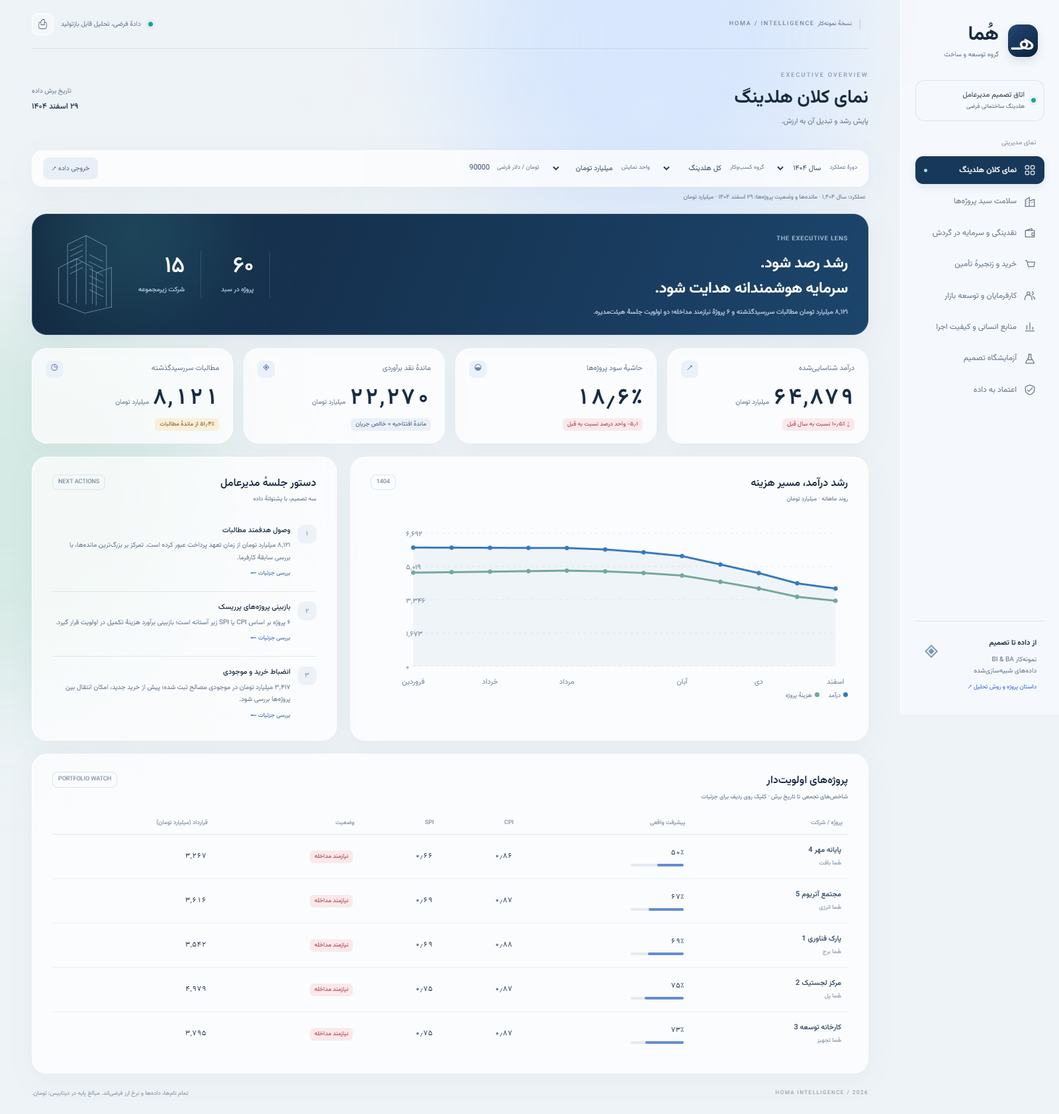
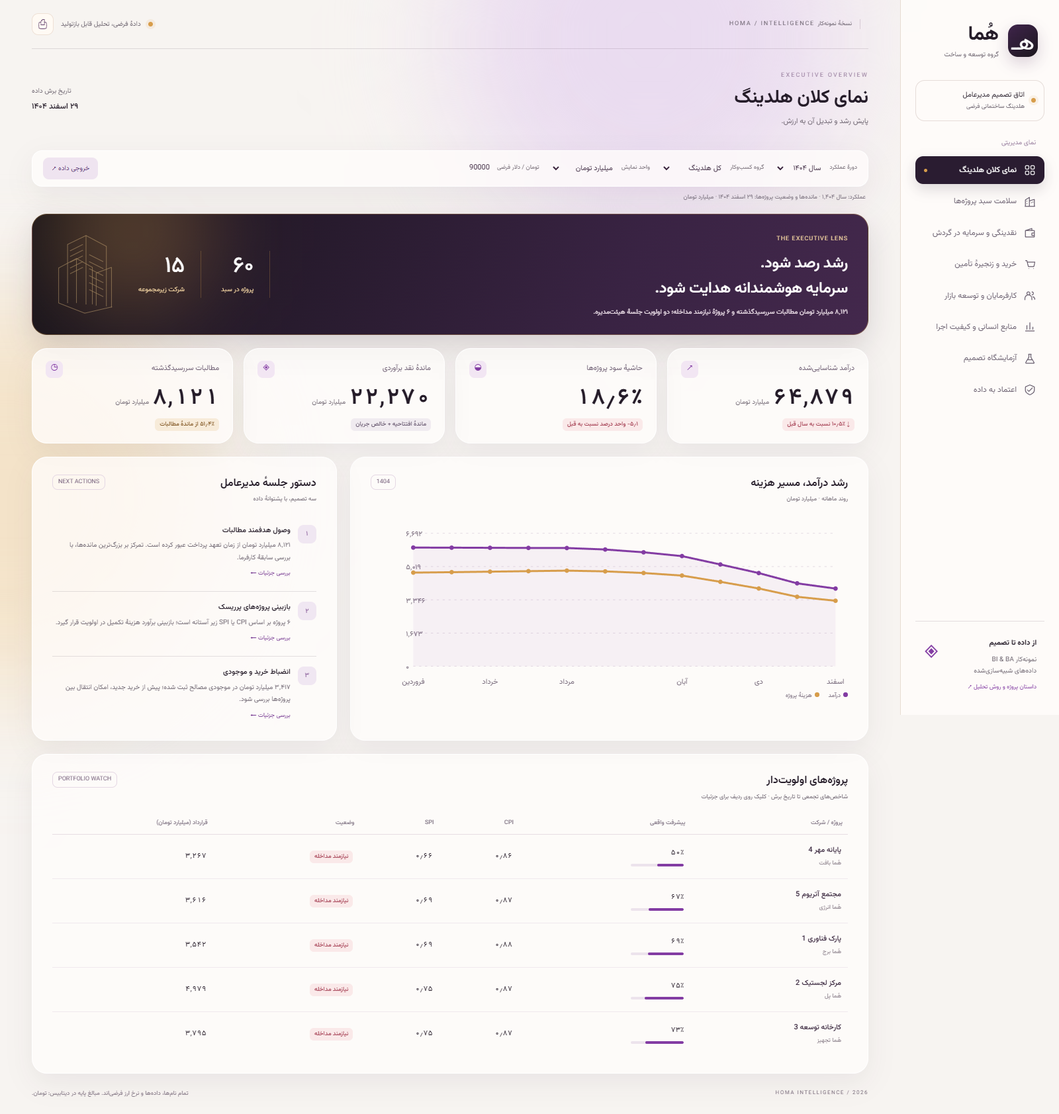
Apply Lotus-inspired dashboard palette

diff --git a/app.js b/app.js
@@ -56,11 +56,11 @@ const riskRank=p=>(1-p.cpi)*.5+(1-p.spi)*.5;
 function projectsTable(ps,limit=60){return `<div class="table-wrap"><table><thead><tr><th>پروژه / شرکت</th><th>پیشرفت واقعی</th><th>CPI</th><th>SPI</th><th>وضعیت</th><th>قرارداد (${unit()})</th></tr></thead><tbody>${[...ps].sort((a,b)=>riskRank(b)-riskRank(a)).slice(0,limit).map(p=>`<tr data-project="${p.project_id}"><td class="project-name">${p.name}<span class="secondary">${p.company_name}</span></td><td>${percent(p.progress,0)}<div class="progress"><b style="width:${p.progress*100}%"></b></div></td><td dir="ltr">${fa(p.cpi,2)}</td><td dir="ltr">${fa(p.spi,2)}</td><td>${pill(risk(p)?'نیازمند مداخله':p.spi<.95?'تحت پایش':'پایدار',risk(p)?'negative':p.spi<.95?'warning':'positive')}</td><td>${money(p.contract_toman)}</td></tr>`).join('')}</tbody></table></div>`}
 function scatter(ps){
  const w=580,h=282,l=52,t=26,b=36,r=28,xmin=.75,xmax=1.12,ymin=.55,ymax=1.13,x=v=>l+(v-xmin)/(xmax-xmin)*(w-l-r),y=v=>t+(ymax-v)/(ymax-ymin)*(h-t-b);
- let s=`<svg class="chart" viewBox="0 0 ${w} ${h}" role="img" aria-label="ماتریس عملکرد زمان و هزینه"><rect x="${l}" y="${t}" width="${w-l-r}" height="${h-t-b}" rx="10" fill="#f0f5fa"/><rect x="${x(1)}" y="${t}" width="${x(xmax)-x(1)}" height="${y(1)-t}" fill="#e3f3ee"/>`;
+ let s=`<svg class="chart" viewBox="0 0 ${w} ${h}" role="img" aria-label="ماتریس عملکرد زمان و هزینه"><rect x="${l}" y="${t}" width="${w-l-r}" height="${h-t-b}" rx="10" fill="#f5edf4"/><rect x="${x(1)}" y="${t}" width="${x(xmax)-x(1)}" height="${y(1)-t}" fill="#f4eadb"/>`;
  [.8,.9,1,1.1].forEach(v=>s+=`<line x1="${x(v)}" y1="${t}" x2="${x(v)}" y2="${h-b}" class="axis-line"/><text x="${x(v)}" y="${h-b+18}" text-anchor="middle">${fa(v,1)}</text>`);
  [.6,.8,1].forEach(v=>s+=`<line x1="${l}" y1="${y(v)}" x2="${w-r}" y2="${y(v)}" class="axis-line"/><text x="${l-10}" y="${y(v)+4}" text-anchor="end">${fa(v,1)}</text>`);
  s+=`<text x="${w/2}" y="${h-2}" text-anchor="middle">کارایی هزینه CPI →</text><text x="${l+60}" y="15" text-anchor="middle">کارایی زمان SPI</text>`;
- ps.forEach(p=>{const rad=4+Math.sqrt(p.budget_toman/BN)/13,color=risk(p)?'#be7277':'#5489c6';s+=`<circle cx="${x(p.cpi)}" cy="${y(p.spi)}" r="${rad}" fill="${color}" opacity=".72" stroke="#fff" stroke-width="1.2" data-project="${p.project_id}" data-tip="${esc(p.name+' · CPI '+fa(p.cpi,2)+' · SPI '+fa(p.spi,2))}"/>`});return s+'</svg><div class="footnote">هر دایره یک پروژه؛ اندازه متناسب با بودجه. مقدار کمتر از ۱ یعنی عملکرد ضعیفتر از خط مبنا. جزئیات هر پروژه با انتخاب دایره نمایش داده میشود.</div>';
+ ps.forEach(p=>{const rad=4+Math.sqrt(p.budget_toman/BN)/13,color=risk(p)?'#b45e69':'#8b55a1';s+=`<circle cx="${x(p.cpi)}" cy="${y(p.spi)}" r="${rad}" fill="${color}" opacity=".72" stroke="#fff" stroke-width="1.2" data-project="${p.project_id}" data-tip="${esc(p.name+' · CPI '+fa(p.cpi,2)+' · SPI '+fa(p.spi,2))}"/>`});return s+'</svg><div class="footnote">هر دایره یک پروژه؛ اندازه متناسب با بودجه. مقدار کمتر از ۱ یعنی عملکرد ضعیفتر از خط مبنا. جزئیات هر پروژه با انتخاب دایره نمایش داده میشود.</div>';
 }
 function forecast(c){
  const last=c.all.filter(x=>x.period_id>=34),overdue=sum(c.ar.filter(x=>x.overdue_days>0),'balance_toman'),ap=sum(c.ap,'balance_toman');
@@ -82,22 +82,22 @@ function forecast(c){
 function overview(c){
  const overdue=sum(c.ar.filter(x=>x.overdue_days>0),'balance_toman'),risky=c.projects.filter(risk),delta=c.prevRevenue?(c.revenue/c.prevRevenue-1):null;
  const marginal=c.prevMargin!==null?(c.margin-c.prevMargin)*100:null;
- return `<section class="hero"><div><span class="tag">THE EXECUTIVE LENS</span><h2>رشد رصد شود.<br>سرمایه هوشمندانه هدایت شود.</h2><p>${money(overdue)} ${unit()} مطالبات سررسیدگذشته و ${fa(risky.length)} پروژهٔ نیازمند مداخله؛ دو اولویت جلسهٔ هیئتمدیره.</p></div><div class="hero-stats"><div class="hero-stat"><strong>${fa(c.projects.length)}</strong><span>پروژه در سبد</span></div><div class="hero-stat"><strong>${fa(new Set(c.projects.map(p=>p.company_id)).size)}</strong><span>شرکت زیرمجموعه</span></div><svg class="building" viewBox="0 0 100 130"><g fill="none" stroke="#b5daef" stroke-width=".8"><path d="M8 110V55l28-15 25 14v58M36 40v70M22 110V18L51 4l32 17v94M51 4v108M67 114V63l24-9v63M8 110l41 16 43-10"/><path d="M26 28l20-10m-20 19 20-10m-20 19 20-10m-20 19 20-10m-20 19 20-10m10-20 22 11m-22 0 22 11m-22 0 22 11m-22 0 22 11m-22 0 22 11m-22 0 22 11"/></g></svg></div></section>
+ return `<section class="hero"><div><span class="tag">THE EXECUTIVE LENS</span><h2>رشد رصد شود.<br>سرمایه هوشمندانه هدایت شود.</h2><p>${money(overdue)} ${unit()} مطالبات سررسیدگذشته و ${fa(risky.length)} پروژهٔ نیازمند مداخله؛ دو اولویت جلسهٔ هیئتمدیره.</p></div><div class="hero-stats"><div class="hero-stat"><strong>${fa(c.projects.length)}</strong><span>پروژه در سبد</span></div><div class="hero-stat"><strong>${fa(new Set(c.projects.map(p=>p.company_id)).size)}</strong><span>شرکت زیرمجموعه</span></div><svg class="building" viewBox="0 0 100 130"><g fill="none" stroke="#d9b572" stroke-width=".8"><path d="M8 110V55l28-15 25 14v58M36 40v70M22 110V18L51 4l32 17v94M51 4v108M67 114V63l24-9v63M8 110l41 16 43-10"/><path d="M26 28l20-10m-20 19 20-10m-20 19 20-10m-20 19 20-10m-20 19 20-10m10-20 22 11m-22 0 22 11m-22 0 22 11m-22 0 22 11m-22 0 22 11m-22 0 22 11"/></g></svg></div></section>
  <div class="kpi-grid">${kpi('درآمد شناساییشده',money(c.revenue),unit(),delta===null?'بدون دورهٔ مقایسه':`${delta>=0?'↑':'↓'} ${percent(Math.abs(delta))} نسبت به سال قبل`,delta===null?'neutral':delta>=0?'positive':'negative')}${kpi('حاشیهٔ سود پروژهها',percent(c.margin),'',marginal===null?'درآمد منهای هزینهٔ پروژه':`${fa(marginal,1)} واحد درصد نسبت به قبل`,marginal===null?'neutral':marginal>=0?'positive':'negative','◒')}${kpi('ماندهٔ نقد برآوردی',money(c.cash),unit(),'ماندهٔ افتتاحیه + خالص جریان','neutral','◈')}${kpi('مطالبات سررسیدگذشته',money(overdue),unit(),percent(overdue/sum(c.ar,'balance_toman'))+' از ماندهٔ مطالبات','warning','◷')}</div>
- <div class="grid-main">${panel('رشد درآمد، مسیر هزینه','روند ماهانه · '+unit(),lineChart(c.periods.map(p=>p.label.split(' ')[0]),[{name:'درآمد',values:sumTrend(c,'revenue_toman'),color:'#3579be'},{name:'هزینهٔ پروژه',values:sumTrend(c,'cost_toman'),color:'#72a89e'}]),state.year==='all'?'۳۶ ماه':state.year)}${panel('دستور جلسهٔ مدیرعامل','سه تصمیم، با پشتوانهٔ داده',insight(1,'وصول هدفمند مطالبات',`${money(overdue)} ${unit()} از زمان تعهد پرداخت عبور کرده است. تمرکز بر بزرگترین ماندهها، با بررسی سابقهٔ کارفرما.`,'cash')+insight(2,'بازبینی پروژههای پرریسک',`${fa(risky.length)} پروژه بر اساس CPI یا SPI زیر آستانه است؛ بازبینی برآورد هزینهٔ تکمیل در اولویت قرار گیرد.`,'projects')+insight(3,'انضباط خرید و موجودی',`${money(sum(c.all,'stock_delta_toman'))} ${unit()} در موجودی مصالح ثبت شده؛ پیش از خرید جدید، امکان انتقال بین پروژهها بررسی شود.`,'procurement'),'NEXT ACTIONS')}</div>
+ <div class="grid-main">${panel('رشد درآمد، مسیر هزینه','روند ماهانه · '+unit(),lineChart(c.periods.map(p=>p.label.split(' ')[0]),[{name:'درآمد',values:sumTrend(c,'revenue_toman'),color:'#833ca3'},{name:'هزینهٔ پروژه',values:sumTrend(c,'cost_toman'),color:'#d79d4b'}]),state.year==='all'?'۳۶ ماه':state.year)}${panel('دستور جلسهٔ مدیرعامل','سه تصمیم، با پشتوانهٔ داده',insight(1,'وصول هدفمند مطالبات',`${money(overdue)} ${unit()} از زمان تعهد پرداخت عبور کرده است. تمرکز بر بزرگترین ماندهها، با بررسی سابقهٔ کارفرما.`,'cash')+insight(2,'بازبینی پروژههای پرریسک',`${fa(risky.length)} پروژه بر اساس CPI یا SPI زیر آستانه است؛ بازبینی برآورد هزینهٔ تکمیل در اولویت قرار گیرد.`,'projects')+insight(3,'انضباط خرید و موجودی',`${money(sum(c.all,'stock_delta_toman'))} ${unit()} در موجودی مصالح ثبت شده؛ پیش از خرید جدید، امکان انتقال بین پروژهها بررسی شود.`,'procurement'),'NEXT ACTIONS')}</div>
  ${panel('پروژههای اولویتدار','شاخصهای تجمعی تا تاریخ برش · کلیک روی ردیف برای جزئیات',projectsTable(c.projects,5),'PORTFOLIO WATCH')}`;
 }
 function projectsPage(c){
  const ev=sum(c.projects,'ev_toman'),ac=sum(c.projects,'cost_toman'),pv=sum(c.projects,'pv_toman'),bac=sum(c.projects,'budget_toman'),eac=sum(c.projects,p=>p.progress>=1?p.cost_toman:p.budget_toman/p.cpi);
  return `<div class="kpi-grid">${kpi('ارزش باقیماندهٔ قرارداد',money(sum(c.projects,p=>p.contract_toman-p.revenue_toman)),unit(),'ماندهٔ تعهدات شناسایینشده')}${kpi('کارایی هزینهٔ سبد',fa(ev/ac,2),'CPI','ارزش کسبشده ÷ هزینهٔ واقعی',ev/ac>=1?'positive':'warning')}${kpi('کارایی زمان سبد',fa(ev/pv,2),'SPI','ارزش کسبشده ÷ ارزش برنامه',ev/pv>=1?'positive':'warning')}${kpi('انحراف برآورد تکمیل',money(eac-bac),unit(),'EAC منهای بودجه؛ تخمین سناریویی',eac>bac?'negative':'positive')}</div>
- <div class="grid-equal">${panel('نقشهٔ ریسک زمان و هزینه','شاخصها از مجموع ارقام محاسبه میشوند، نه میانگین درصدها',scatter(c.projects),'AS OF 1404/12/29')}${panel('بودجه و هزینهٔ پیشبینیشدهٔ تکمیل','برای پروژههای باز: EAC = BAC ÷ CPI',bars(c.projects.sort((a,b)=>riskRank(b)-riskRank(a)).slice(0,5).map(p=>({name:p.name,value:Math.max(0,p.budget_toman/p.cpi-p.budget_toman),note:'انحراف برآوردی',color:'#bf858b'})))+'<p class="footnote">EAC فرض میکند کارایی هزینهٔ فعلی ادامه یابد. این شاخص جایگزین برآورد مهندسی هزینهٔ تکمیل نیست.</p>')}</div>
+ <div class="grid-equal">${panel('نقشهٔ ریسک زمان و هزینه','شاخصها از مجموع ارقام محاسبه میشوند، نه میانگین درصدها',scatter(c.projects),'AS OF 1404/12/29')}${panel('بودجه و هزینهٔ پیشبینیشدهٔ تکمیل','برای پروژههای باز: EAC = BAC ÷ CPI',bars(c.projects.sort((a,b)=>riskRank(b)-riskRank(a)).slice(0,5).map(p=>({name:p.name,value:Math.max(0,p.budget_toman/p.cpi-p.budget_toman),note:'انحراف برآوردی',color:'#b45e69'})))+'<p class="footnote">EAC فرض میکند کارایی هزینهٔ فعلی ادامه یابد. این شاخص جایگزین برآورد مهندسی هزینهٔ تکمیل نیست.</p>')}</div>
  ${panel('دفتر سبد پروژهها','درآمد و هزینه در جزئیات پروژه قابل پیگیری است',`<input class="search" id="project-search" placeholder="جستوجوی نام پروژه…" aria-label="جستوجوی پروژه"><div id="projects-table">${projectsTable(c.projects)}</div>`,fa(c.projects.length)+' پروژه')}`;
 }
 function cashPage(c){
  const f=forecast(c),ar=sum(c.ar,'balance_toman'),buckets=[['سررسید نشده',x=>!x.overdue_days],['۱ تا ۳۰ روز',x=>x.overdue_days>0&&x.overdue_days<=30],['۳۱ تا ۹۰ روز',x=>x.overdue_days>30&&x.overdue_days<=90],['۹۱ تا ۱۸۰ روز',x=>x.overdue_days>90&&x.overdue_days<=180],['بیش از ۱۸۰ روز',x=>x.overdue_days>180]];
  const clients={};c.ar.forEach(x=>{const a=clients[x.customer_id]??={id:x.customer_id,balance:0,overdue:0};a.balance+=x.balance_toman;if(x.overdue_days)a.overdue+=x.balance_toman});
  return `<div class="kpi-grid">${kpi('مطالبات باز',money(ar),unit(),'صورتحساب منهای دریافتها')}${kpi('مطالبات سررسیدگذشته',money(f.overdue),unit(),percent(f.overdue/ar)+' از مطالبات','warning')}${kpi('بدهی باز به تأمینکنندگان',money(f.ap),unit(),'سفارش خرید منهای پرداخت')}${kpi('ماندهٔ نقد برآوردی',money(c.cash),unit(),'مانده در تاریخ برش')}</div>
- <div class="grid-equal">${panel('سن مطالبات','مبنای سن: تاریخ سررسید؛ تا ۲۹ اسفند ۱۴۰۴',bars(buckets.map(([name,fn],i)=>({name,value:sum(c.ar.filter(fn),'balance_toman'),color:i>2?'#bd7d86':'#648dc5'}))))}${panel('چشمانداز نقدینگی ۱۳ هفتهای','سناریوی ساده با فرض ادامهٔ نرخ فعالیت سه ماه اخیر',lineChart(['امروز',...Array.from({length:13},(_,i)=>'هفته '+fa(i+1))],[{name:'سناریوی پایه',values:f.base,color:'#3d77b3'},{name:'با فرضهای آزمایشگاه تصمیم',values:f.scenario,color:'#248e82'}],{minZero:false}))}</div>
+ <div class="grid-equal">${panel('سن مطالبات','مبنای سن: تاریخ سررسید؛ تا ۲۹ اسفند ۱۴۰۴',bars(buckets.map(([name,fn],i)=>({name,value:sum(c.ar.filter(fn),'balance_toman'),color:i>2?'#b45e69':'#a17ab0'}))))}${panel('چشمانداز نقدینگی ۱۳ هفتهای','سناریوی ساده با فرض ادامهٔ نرخ فعالیت سه ماه اخیر',lineChart(['امروز',...Array.from({length:13},(_,i)=>'هفته '+fa(i+1))],[{name:'سناریوی پایه',values:f.base,color:'#833ca3'},{name:'با فرضهای آزمایشگاه تصمیم',values:f.scenario,color:'#9b6828'}],{minZero:false}))}</div>
  ${panel('اولویت پیگیری وصول','همهٔ ماندهها مربوط به تاریخ برش هستند',`<div class="table-wrap"><table><thead><tr><th>کارفرما</th><th>ماندهٔ باز (${unit()})</th><th>سررسیدگذشته (${unit()})</th><th>سهم سررسیدگذشته</th></tr></thead><tbody>${Object.values(clients).sort((a,b)=>b.overdue-a.overdue).slice(0,8).map(x=>`<tr><td>${customerMap[x.id].name}</td><td>${money(x.balance)}</td><td>${money(x.overdue)}</td><td>${pill(percent(x.overdue/x.balance),x.overdue/x.balance>.6?'warning':'neutral')}</td></tr>`).join('')}</tbody></table></div>`)}<div class="callout">پیشبینی سناریویی است، نه وعدهٔ وصول: وصول ماندهها با ضرایب ۸۸٪، ۷۰٪، ۴۵٪ و ۲۵٪ برحسب سن فرض شده؛ پرداخت ماندهٔ تأمینکنندگان طی ۱۳ هفته و پرداخت ۷۴٪ هزینهٔ جدید نیز فرض مدل است. ماندهٔ افتتاحیه برای فیلتر گروه به نسبت قراردادها تخصیص مییابد.</div>`;
 }
 function procurement(c){
@@ -118,7 +118,7 @@ function customers(c){
 function people(c){
  const pe=D.people.filter(x=>c.ids.has(x.project_id)),pay=D.costs.filter(x=>c.ids.has(x.project_id)&&c.periodIds.has(x.period_id)&&x.category==='payroll'),n=sum(pe,'headcount'),tickets=sum(c.m,'tickets'),breach=sum(c.m,'breached_tickets');
  return `<div class="kpi-grid">${kpi('نیروی انسانی تخصیصیافته',fa(n),'نفر','تعداد ثابت در سناریوی داده')}${kpi('هزینهٔ حقوق و دستمزد',money(sum(pay,'amount_toman')),unit(),'قابل تطبیق با ریز حقوق')}${kpi('درخواستهای ثبتشده',fa(tickets),'درخواست','کیفیت، اسناد، تغییر و ایمنی')}${kpi('حل درخواست در SLA',percent(1-breach/tickets),'','حل در حداکثر ۷ روز','warning')}</div>
- <div class="grid-equal">${panel('ترکیب نیروی انسانی','تعداد کارکنان تخصیصیافته به پروژهها',bars(['مهندس','تکنسین','کارشناس پروژه','سرپرست','کارگر ماهر'].map(name=>({name,value:sum(pe.filter(x=>x.role===name),'headcount'),note:'نفر'})),{count:true}))}${panel('روند هزینهٔ نیروی انسانی','مبالغ '+unit()+' · بخشی از هزینهٔ مستقیم پروژه',lineChart(c.periods.map(p=>p.label.split(' ')[0]),[{name:'حقوق و دستمزد',color:'#387fb5',values:c.periods.map(p=>sum(pay.filter(x=>x.period_id===p.period_id),'amount_toman'))}]))}</div>
+ <div class="grid-equal">${panel('ترکیب نیروی انسانی','تعداد کارکنان تخصیصیافته به پروژهها',bars(['مهندس','تکنسین','کارشناس پروژه','سرپرست','کارگر ماهر'].map(name=>({name,value:sum(pe.filter(x=>x.role===name),'headcount'),note:'نفر'})),{count:true}))}${panel('روند هزینهٔ نیروی انسانی','مبالغ '+unit()+' · بخشی از هزینهٔ مستقیم پروژه',lineChart(c.periods.map(p=>p.label.split(' ')[0]),[{name:'حقوق و دستمزد',color:'#833ca3',values:c.periods.map(p=>sum(pay.filter(x=>x.period_id===p.period_id),'amount_toman'))}]))}</div>
  ${panel('پروژههای نیازمند بهبود خدمت','نسبت عبور از SLA، ابزار پایش است و بهتنهایی علت را اثبات نمیکند',`<div class="table-wrap"><table><thead><tr><th>پروژه</th><th>درخواست</th><th>عبور از SLA</th><th>نرخ رعایت SLA</th></tr></thead><tbody>${c.projects.map(p=>{const ms=c.m.filter(x=>x.project_id===p.project_id);return{...p,n:sum(ms,'tickets'),bad:sum(ms,'breached_tickets')}}).sort((a,b)=>b.bad/b.n-a.bad/a.n).slice(0,7).map(p=>`<tr data-project="${p.project_id}"><td>${p.name}</td><td>${fa(p.n)}</td><td>${fa(p.bad)}</td><td>${pill(percent(1-p.bad/p.n),'warning')}</td></tr>`).join('')}</tbody></table></div>`)}`;
 }
 function decisions(c){
@@ -129,7 +129,7 @@ function decisions(c){
  <div class="decision-card glass"><div class="rank">02</div><div><h3>بازبرآورد هزینهٔ تکمیل پروژههای پرریسک</h3><p>${worst.name} در اولویت بازبینی است: CPI برابر ${fa(worst.cpi,2)} و SPI برابر ${fa(worst.spi,2)}. گزارش مهندسیِ مسیر بحرانی، تعهدات و کار باقیمانده پیش از تزریق بودجه آماده شود.</p></div><div class="owner">مالک: PMO + مدیر پروژه<br>افق اقدام: ۱۴ روز<br>شاخص: EAC و برنامهٔ جبرانی</div></div>
  <div class="decision-card glass"><div class="rank">03</div><div><h3>مذاکرهٔ خرید و انتقال موجودی بین پروژهها</h3><p>مقایسهٔ تأمینکنندگان در هر گروه مصالح، بررسی کیفیت و زمان تحویل، سپس مذاکرهٔ آزمایشی. انتقال موجودی فقط پس از تطبیق مشخصات فنی و نیاز مصوب پروژهٔ مقصد انجام شود.</p></div><div class="owner">مالک: خرید + انبار + فنی<br>افق اقدام: ۴۵ روز<br>شاخص: قیمت همسبد و تأخیر</div></div>`;
 }
-function scenarioOutput(c){const f=forecast(c),delta=f.scenario.at(-1)-f.base.at(-1);return `<div class="scenario-result"><div><small>اثر نقدی ۱۳ هفته · ${unit()}</small><strong style="color:${delta>=0?'var(--teal)':'var(--red)'}">${delta>=0?'+':''}${money(delta)}</strong></div><div><small>اثر بر سود فرضی · ${unit()}</small><strong>${money(f.netProfit)}</strong></div><div><small>کمترین ماندهٔ سناریو · ${unit()}</small><strong>${money(Math.min(...f.scenario))}</strong></div></div>${lineChart(['امروز',...Array.from({length:13},(_,i)=>'هفته '+fa(i+1))],[{name:'پایه',values:f.base,color:'#8aa2bd',dashed:true},{name:'سناریوی شما',values:f.scenario,color:'#228d83'}],{minZero:false,height:245})}<p class="footnote">اثر نقدی = وصول افزوده پس از هزینهٔ تشویقی + ۷۴٪ × (صرفهجویی خرید − شوک مصالح). اثر سود شامل اصل مطالبات وصولشده نیست. ${money(f.recover)} ${unit()} وصول افزوده فرض شده است.</p>`}
+function scenarioOutput(c){const f=forecast(c),delta=f.scenario.at(-1)-f.base.at(-1);return `<div class="scenario-result"><div><small>اثر نقدی ۱۳ هفته · ${unit()}</small><strong style="color:${delta>=0?'var(--teal)':'var(--red)'}">${delta>=0?'+':''}${money(delta)}</strong></div><div><small>اثر بر سود فرضی · ${unit()}</small><strong>${money(f.netProfit)}</strong></div><div><small>کمترین ماندهٔ سناریو · ${unit()}</small><strong>${money(Math.min(...f.scenario))}</strong></div></div>${lineChart(['امروز',...Array.from({length:13},(_,i)=>'هفته '+fa(i+1))],[{name:'پایه',values:f.base,color:'#aa96ad',dashed:true},{name:'سناریوی شما',values:f.scenario,color:'#9b6828'}],{minZero:false,height:245})}<p class="footnote">اثر نقدی = وصول افزوده پس از هزینهٔ تشویقی + ۷۴٪ × (صرفهجویی خرید − شوک مصالح). اثر سود شامل اصل مطالبات وصولشده نیست. ${money(f.recover)} ${unit()} وصول افزوده فرض شده است.</p>`}
 function quality(){const q=D.dq,physical=sum(Object.entries(D.rowCounts).filter(([k])=>!['metadata','dq_audit','dq_quarantine'].includes(k)).map(([k,v])=>({n:v})),'n');return `<div class="lineage"><div class="glass"><span class="stage">01 / SOURCE</span><strong>${fa(q.raw_rows)}</strong><span>ردیف خام سفارش خرید</span></div><div class="glass"><span class="stage">02 / VALIDATE</span><strong>${fa(q.duplicate_order+q.missing_project+q.negative_amount+q.invalid_supplier)}</strong><span>تکراری یا قرنطینهشده</span></div><div class="glass"><span class="stage">03 / WAREHOUSE</span><strong>${fa(q.accepted_orders)}</strong><span>سفارش یکتای معتبر</span></div><div class="glass"><span class="stage">04 / DECISION</span><strong>۸ نمای تحلیلی</strong><span>شاخصهای مشترک و قابل ردیابی</span></div></div>
  <div class="grid-equal">${panel('کیفیت، با مدرک','کنترلهای ثبتشده در qa/data-validation.json',`<div class="quality-number">۱۵ / ۱۵</div><div class="sub">کنترل اصلی داده با موفقیت انجام شده</div><div class="callout">تطبیق هزینهٔ پروژه با ریز هزینهها، حقوق با ریز پرداخت کارکنان، مصرف مصالح با موجودی، دریافتی با رویدادهای نقدی و نبود کلید خارجی نامعتبر.</div><div class="stat-pair"><div><strong>${fa(physical)}</strong><span>رکورد در جداول عملیاتی و تحلیلی</span></div><div><strong>${fa(D.rowCounts.projects)}</strong><span>پروژهٔ ساختوساز</span></div></div>`)}${panel('گزارش پاکسازی','هیچ ردیف نامعتبر بدون ثبت دلیل حذف نشده است',`<div class="table-wrap"><table><thead><tr><th>مسئله</th><th>تعداد</th><th>اقدام</th></tr></thead><tbody>${[['سفارش تکراری',q.duplicate_order,'حذف تکرار'],['شناسهٔ پروژهٔ خالی',q.missing_project,'قرنطینه'],['مبلغ منفی نامعتبر',q.negative_amount,'قرنطینه'],['تأمینکنندهٔ نامعتبر',q.invalid_supplier,'قرنطینه'],['مبلغ ریالی',q.irr_to_toman,'تبدیل به تومان'],['قالب متفاوت تاریخ',q.date_standardized,'استانداردسازی']].map(x=>`<tr><td>${x[0]}</td><td>${fa(x[1])}</td><td>${pill(x[2])}</td></tr>`).join('')}</tbody></table></div>`)}</div>
  ${panel('تعریف و دامنهٔ شاخصها','شفافیت فرضها، بخشی از نمونهکار است',`<div class="table-wrap"><table><thead><tr><th>شاخص</th><th>تعریف</th><th>محدودیت</th></tr></thead><tbody><tr><td>درآمد شناساییشده</td><td>ارزش قرارداد × افزایش پیشرفت واقعی</td><td>مدل مدیریتی ساده؛ قواعد رسمی حسابداری اعمال نشده</td></tr><tr><td>سود پروژه</td><td>درآمد منهای هزینهٔ مستقیم پروژه</td><td>مالیات، هزینهٔ تأمین مالی و سربار مرکزی مدل نشده</td></tr><tr><td>CPI / SPI</td><td>EV ÷ AC / EV ÷ PV</td><td>ارزش کسبشده با بودجه سنجیده میشود، نه مبلغ فروش</td></tr><tr><td>ماندهٔ نقد</td><td>افتتاحیه + دریافت − پرداخت − بازاریابی</td><td>ماندهٔ شبیهسازیشده؛ وام و سود سهام مدل نشده</td></tr><tr><td>دلار</td><td>تومان ÷ نرخ فرضی ÷ یک میلیون</td><td>صرفاً تبدیل نمایشی، بدون نرخ زنده</td></tr><tr><td>همت</td><td>هزار میلیارد تومان</td><td>همهٔ محاسبات پایه بر حسب تومان صحیح</td></tr></tbody></table></div>`)}<p class="footnote">دادهها از روابط تعریفشدهٔ سناریو تولید شدهاند؛ کشف علت یا اثبات مهارت روی دادهٔ واقعی محسوب نمیشوند. کد تولید، SQL، تعاریف شاخص و کنترلهای کیفیت همراه پروژهاند.</p>`}
@@ -139,7 +139,7 @@ function bindLocal(c){
  ['collect','save','inflation'].forEach(k=>$('#'+k)?.addEventListener('input',e=>{state[k]=+e.target.value;$('#'+k+'-label').textContent=fa(state[k],k==='save'?1:0)+'٪';$('#scenario-output').innerHTML=scenarioOutput(c)}));
  $('#reset-scenario')?.addEventListener('click',()=>{state.collect=20;state.save=3;state.inflation=5;render()});
 }
-function detail(id){const p=projectMap[id];if(!p)return;const ms=D.monthly.filter(x=>x.project_id===id&&x.period_id>24),ar=sum(D.receivables.filter(x=>x.project_id===id),'balance_toman');$('#drawer-body').innerHTML=`<div class="eyebrow">PROJECT / ${String(id).padStart(3,'0')}</div><h2>${p.name}</h2><p>${p.company_name} · ${p.location}<br>${p.type} · همهٔ ماندهها در تاریخ برش داده</p><div class="kpi-grid">${kpi('ارزش قرارداد',money(p.contract_toman),unit())}${kpi('پیشرفت واقعی',percent(p.progress),'',`برنامه: ${percent(p.planned_progress)}`)}${kpi('کارایی هزینه',fa(p.cpi,2),'CPI',p.cpi<1?'بالاتر از هزینهٔ بودجهای':'در محدودهٔ بودجه',p.cpi<1?'warning':'positive')}${kpi('مطالبات باز',money(ar),unit())}</div>${panel('درآمد و هزینهٔ ۱۲ ماه اخیر',unit(),lineChart(D.periods.slice(24).map(x=>x.label.split(' ')[0]),[{name:'درآمد',values:ms.map(x=>x.revenue_toman),color:'#4c83c3'},{name:'هزینه',values:ms.map(x=>x.cost_toman),color:'#82aaa1'}]))}<div class="callout">ارزش کسبشده: ${money(p.ev_toman)} ${unit()}<br>هزینهٔ تجمعی: ${money(p.cost_toman)} ${unit()}<br>پیشبینی هزینهٔ تکمیل: ${money(p.progress>=1?p.cost_toman:p.budget_toman/p.cpi)} ${unit()}<br>فروض EAC: تداوم کارایی هزینهٔ فعلی.</div>`;$('#backdrop').hidden=false;$('#drawer').hidden=false;$('#close-drawer').focus()}
+function detail(id){const p=projectMap[id];if(!p)return;const ms=D.monthly.filter(x=>x.project_id===id&&x.period_id>24),ar=sum(D.receivables.filter(x=>x.project_id===id),'balance_toman');$('#drawer-body').innerHTML=`<div class="eyebrow">PROJECT / ${String(id).padStart(3,'0')}</div><h2>${p.name}</h2><p>${p.company_name} · ${p.location}<br>${p.type} · همهٔ ماندهها در تاریخ برش داده</p><div class="kpi-grid">${kpi('ارزش قرارداد',money(p.contract_toman),unit())}${kpi('پیشرفت واقعی',percent(p.progress),'',`برنامه: ${percent(p.planned_progress)}`)}${kpi('کارایی هزینه',fa(p.cpi,2),'CPI',p.cpi<1?'بالاتر از هزینهٔ بودجهای':'در محدودهٔ بودجه',p.cpi<1?'warning':'positive')}${kpi('مطالبات باز',money(ar),unit())}</div>${panel('درآمد و هزینهٔ ۱۲ ماه اخیر',unit(),lineChart(D.periods.slice(24).map(x=>x.label.split(' ')[0]),[{name:'درآمد',values:ms.map(x=>x.revenue_toman),color:'#833ca3'},{name:'هزینه',values:ms.map(x=>x.cost_toman),color:'#d79d4b'}]))}<div class="callout">ارزش کسبشده: ${money(p.ev_toman)} ${unit()}<br>هزینهٔ تجمعی: ${money(p.cost_toman)} ${unit()}<br>پیشبینی هزینهٔ تکمیل: ${money(p.progress>=1?p.cost_toman:p.budget_toman/p.cpi)} ${unit()}<br>فروض EAC: تداوم کارایی هزینهٔ فعلی.</div>`;$('#backdrop').hidden=false;$('#drawer').hidden=false;$('#close-drawer').focus()}
 function closeDetail(){$('#backdrop').hidden=true;$('#drawer').hidden=true}
 $('#close-drawer').onclick=closeDetail;$('#backdrop').onclick=closeDetail;document.addEventListener('keydown',e=>{if(e.key==='Escape')closeDetail()});
 document.addEventListener('click',e=>{const project=e.target.closest('[data-project]');if(project)detail(+project.dataset.project);const go=e.target.closest('[data-go]');if(go)location.hash=go.dataset.go});

diff --git a/CASE-STUDY.html b/CASE-STUDY.html
@@ -1,1 +1,1 @@
-<!doctype html><html lang="fa" dir="rtl"><meta charset="utf-8"><meta name="viewport" content="width=device-width,initial-scale=1"><title>هُما | از داده تا تصمیم</title><style>@font-face{font-family:v;src:url(assets/Vazirmatn.ttf)}*{box-sizing:border-box}body{margin:0;background:#edf2f6;color:#182d42;font:17px/2 v,sans-serif}main{max-width:1140px;margin:auto;padding:60px 25px}header{padding:65px;border-radius:35px;background:#162e47;color:white}h1{font-size:48px;line-height:1.6;margin:12px 0}.eyebrow{letter-spacing:4px;font:13px Arial}.btn{display:inline-block;padding:12px 23px;border-radius:14px;background:#a8dfcc;color:#163329;text-decoration:none;margin:8px}.grid{display:grid;grid-template-columns:repeat(4,1fr);gap:18px;margin:25px 0}.card,section{background:#ffffffc9;border:1px solid white;box-shadow:0 16px 45px #22394b08;border-radius:25px;padding:28px;margin-top:20px}.card b{display:block;font:38px/1.8 Arial}.card span,.card small{display:block}h2{margin-top:0}img{width:100%;border-radius:20px}li{margin:12px 0}a{color:#236092}.note{color:#667b8c}@media(max-width:700px){.grid{grid-template-columns:1fr 1fr}header{padding:30px}h1{font-size:32px}}</style><main><header><div class="eyebrow">HOMA • BUSINESS INTELLIGENCE / BUSINESS ANALYSIS</div><h1>از دادهٔ پراکنده<br>تا تصمیم مدیرعامل.</h1><p>نمونهکار هلدینگ ساختمانی فرضی در تهران؛ طراحی برای سطح میدل BI / BA.</p><a class="btn" href="index.html">ورود به داشبورد تعاملی ←</a><a class="btn" href="video/HOMA-90s.mp4">تماشای روایت ۹۰ ثانیهای</a></header><div class="grid"><div class="card"><small>دادهٔ معتبر</small><b>240,000</b><span>سفارش خرید</span></div><div class="card"><small>پرتفوی</small><b>60</b><span>پروژهٔ ساختمانی</span></div><div class="card"><small>درآمد ۱۴۰۴</small><b>64.88</b><span>همت</span></div><div class="card"><small>حاشیه پروژه</small><b>18.6%</b><span>سال ۱۴۰۴</span></div></div><section><h2>مسئلهٔ کسبوکار</h2><p>مدیرعامل باید بداند کدام پروژه به بازبینی نیاز دارد، کدام مطالبات اولویت وصول دارند و تغییر شرایط خرید چه اثری بر نقد میگذارد. مدل میان درآمد، صورتوضعیت، دریافت نقد و خرید تفاوت میگذارد.</p><p>دادهٔ خام شامل تکرار، مبلغ نامعتبر، واحد ریال و کلید مفقود است. مسیر پاکسازی و کنترلهای تطبیق در کنار داشبورد تحویل شدهاند.</p></section><section><h2>سه یافته؛ سه مسیر اقدام</h2><ol><li><b>8.12 همت مطالبات معوق:</b> ثبت مالک پرونده، حل اختلاف و برنامهٔ وصول ۳۰روزه.</li><li><b>6 پروژهٔ پرریسک:</b> بازبرآورد هزینهٔ تکمیل و بازبینی برنامهٔ جبرانی توسط PMO.</li><li><b>3.42 همت موجودی مصالح:</b> بررسی قابلیت انتقال و مقایسهٔ تأمینکنندگان در سبد یکسان.</li></ol><p class="note">درآمد ۱۴۰۴ نسبت به سال قبل 10.5٪ کاهش دارد. اقدامها پیشنهادند؛ بهبود تحققیافته ادعا نشده است.</p></section><section><h2>داشبورد در عمل</h2><img src="qa/overview.png" alt="داشبورد مدیریتی هُما"><p>هشت حوزه، فیلتر گروه و سال، تبدیل واحد، جزئیات پروژه و سه اهرم حساسیتسنجی.</p></section><section><h2>پروندهٔ فنی و تحلیلی</h2><p><a href="excel/HOMA-Analysis.xlsx">فایل Excel با فرمول</a></p><ul><li><a href="https://github.com/Barry-Amirahmadi/homabiportfolio/blob/main/docs/BUSINESS-ANALYSIS.md">نیازمندی و قواعد کسبوکار</a></li><li><a href="https://github.com/Barry-Amirahmadi/homabiportfolio/blob/main/docs/DATA-DICTIONARY.md">فرهنگ داده</a></li><li><a href="https://github.com/Barry-Amirahmadi/homabiportfolio/blob/main/docs/INTERVIEW-GUIDE.md">راهنمای مصاحبه</a></li><li><a href="https://github.com/Barry-Amirahmadi/homabiportfolio/blob/main/powerbi/README-FA.md">ساخت نسخهٔ Power BI</a></li><li><a href="https://github.com/Barry-Amirahmadi/homabiportfolio/blob/main/sql/analysis.sql">کوئریهای تحلیلی</a></li><li>دیتابیس SQLite در بستهٔ محلی نمونهکار قرار دارد.</li><li><a href="https://github.com/Barry-Amirahmadi/homabiportfolio/blob/main/qa/dashboard-validation.json">نتیجهٔ آزمون داشبورد</a></li></ul><p>مدل داده: Python → CSV خام → SQLite → مدل تحلیلی → داشبورد → سناریو و اقدام. منبع ویدئو با OpenMontage / HyperFrames همراه بسته است.</p></section><section><h2>شفافیت نمونهکار</h2><p>تمام دادهها، شرکتها و نرخ ارز فرضیاند. داشبورد وب عمومی و نسخهٔ محلی آمادهاند؛ بستهٔ Power BI شامل داده و DAX است و PBIX نیست. سناریوی نقدینگی مدل فرضی دارد. این پروژه تجربهٔ استخدامی واقعی یا حسابرسی مالی محسوب نمیشود.</p></section></main></html>
+<!doctype html><html lang="fa" dir="rtl"><meta charset="utf-8"><meta name="viewport" content="width=device-width,initial-scale=1"><title>هُما | از داده تا تصمیم</title><style>@font-face{font-family:v;src:url(assets/Vazirmatn.ttf)}*{box-sizing:border-box}body{margin:0;background:#f7f4f1;color:#251c29;font:17px/2 v,sans-serif}main{max-width:1140px;margin:auto;padding:60px 25px}header{padding:65px;border-radius:35px;background:#2a1c31;color:white}h1{font-size:48px;line-height:1.6;margin:12px 0}.eyebrow{letter-spacing:4px;font:13px Arial}.btn{display:inline-block;padding:12px 23px;border-radius:14px;background:#d79d4b;color:#231a20;text-decoration:none;margin:8px}.grid{display:grid;grid-template-columns:repeat(4,1fr);gap:18px;margin:25px 0}.card,section{background:#fffdfbc9;border:1px solid white;box-shadow:0 16px 45px #2a1a2b12;border-radius:25px;padding:28px;margin-top:20px}.card b{display:block;font:38px/1.8 Arial}.card span,.card small{display:block}h2{margin-top:0}img{width:100%;border-radius:20px}li{margin:12px 0}a{color:#763894}.note{color:#685f6b}@media(max-width:700px){.grid{grid-template-columns:1fr 1fr}header{padding:30px}h1{font-size:32px}}</style><main><header><div class="eyebrow">HOMA • BUSINESS INTELLIGENCE / BUSINESS ANALYSIS</div><h1>از دادهٔ پراکنده<br>تا تصمیم مدیرعامل.</h1><p>نمونهکار هلدینگ ساختمانی فرضی در تهران؛ طراحی برای سطح میدل BI / BA.</p><a class="btn" href="index.html">ورود به داشبورد تعاملی ←</a><a class="btn" href="video/HOMA-90s.mp4">تماشای روایت ۹۰ ثانیهای</a></header><div class="grid"><div class="card"><small>دادهٔ معتبر</small><b>240,000</b><span>سفارش خرید</span></div><div class="card"><small>پرتفوی</small><b>60</b><span>پروژهٔ ساختمانی</span></div><div class="card"><small>درآمد ۱۴۰۴</small><b>64.88</b><span>همت</span></div><div class="card"><small>حاشیه پروژه</small><b>18.6%</b><span>سال ۱۴۰۴</span></div></div><section><h2>مسئلهٔ کسبوکار</h2><p>مدیرعامل باید بداند کدام پروژه به بازبینی نیاز دارد، کدام مطالبات اولویت وصول دارند و تغییر شرایط خرید چه اثری بر نقد میگذارد. مدل میان درآمد، صورتوضعیت، دریافت نقد و خرید تفاوت میگذارد.</p><p>دادهٔ خام شامل تکرار، مبلغ نامعتبر، واحد ریال و کلید مفقود است. مسیر پاکسازی و کنترلهای تطبیق در کنار داشبورد تحویل شدهاند.</p></section><section><h2>سه یافته؛ سه مسیر اقدام</h2><ol><li><b>8.12 همت مطالبات معوق:</b> ثبت مالک پرونده، حل اختلاف و برنامهٔ وصول ۳۰روزه.</li><li><b>6 پروژهٔ پرریسک:</b> بازبرآورد هزینهٔ تکمیل و بازبینی برنامهٔ جبرانی توسط PMO.</li><li><b>3.42 همت موجودی مصالح:</b> بررسی قابلیت انتقال و مقایسهٔ تأمینکنندگان در سبد یکسان.</li></ol><p class="note">درآمد ۱۴۰۴ نسبت به سال قبل 10.5٪ کاهش دارد. اقدامها پیشنهادند؛ بهبود تحققیافته ادعا نشده است.</p></section><section><h2>داشبورد در عمل</h2><img src="qa/overview.png" alt="داشبورد مدیریتی هُما"><p>هشت حوزه، فیلتر گروه و سال، تبدیل واحد، جزئیات پروژه و سه اهرم حساسیتسنجی.</p></section><section><h2>پروندهٔ فنی و تحلیلی</h2><p><a href="excel/HOMA-Analysis.xlsx">فایل Excel با فرمول</a></p><ul><li><a href="https://github.com/Barry-Amirahmadi/homabiportfolio/blob/main/docs/BUSINESS-ANALYSIS.md">نیازمندی و قواعد کسبوکار</a></li><li><a href="https://github.com/Barry-Amirahmadi/homabiportfolio/blob/main/docs/DATA-DICTIONARY.md">فرهنگ داده</a></li><li><a href="https://github.com/Barry-Amirahmadi/homabiportfolio/blob/main/docs/INTERVIEW-GUIDE.md">راهنمای مصاحبه</a></li><li><a href="https://github.com/Barry-Amirahmadi/homabiportfolio/blob/main/powerbi/README-FA.md">ساخت نسخهٔ Power BI</a></li><li><a href="https://github.com/Barry-Amirahmadi/homabiportfolio/blob/main/sql/analysis.sql">کوئریهای تحلیلی</a></li><li>دیتابیس SQLite در بستهٔ محلی نمونهکار قرار دارد.</li><li><a href="https://github.com/Barry-Amirahmadi/homabiportfolio/blob/main/qa/dashboard-validation.json">نتیجهٔ آزمون داشبورد</a></li></ul><p>مدل داده: Python → CSV خام → SQLite → مدل تحلیلی → داشبورد → سناریو و اقدام. منبع ویدئو با OpenMontage / HyperFrames همراه بسته است.</p></section><section><h2>شفافیت نمونهکار</h2><p>تمام دادهها، شرکتها و نرخ ارز فرضیاند. داشبورد وب عمومی و نسخهٔ محلی آمادهاند؛ بستهٔ Power BI شامل داده و DAX است و PBIX نیست. سناریوی نقدینگی مدل فرضی دارد. این پروژه تجربهٔ استخدامی واقعی یا حسابرسی مالی محسوب نمیشود.</p></section></main></html>

diff --git a/lotus-theme.css b/lotus-theme.css
@@ -1,0 +1,90 @@
+/* Lotus-inspired palette: black/white, warm gold #D79D4B, amethyst #833CA3. */
+:root {
+  --ink: #251c29;
+  --muted: #685f6b;
+  --line: rgba(75, 52, 74, .15);
+  --blue: #763894;
+  --teal: #805521;
+  --red: #ad4455;
+  --gold: #d79d4b;
+  --glass: rgba(255, 253, 251, .78);
+  --shadow: 0 14px 40px rgba(42, 26, 43, .065);
+}
+body { background: #f7f4f1; }
+button:focus-visible, a:focus-visible, select:focus-visible, input:focus-visible { outline-color: #833ca3; }
+.a1 { background: #eadcf0; }
+.a2 { background: #f4e3c9; }
+.sidebar { background: rgba(255, 253, 250, .84); border-left-color: rgba(154, 118, 80, .23); }
+.brand-mark { background: linear-gradient(145deg, #3f244b, #1c171e); box-shadow: 0 9px 24px rgba(77, 37, 85, .2); }
+.workspace { border-color: #e6dcd9; }
+.status-dot, .live-dot { background: #d79d4b; box-shadow: 0 0 0 4px #d79d4b1c; }
+.nav-label, .eyebrow { color: #997f9f; }
+nav a { color: #695e6f; }
+nav a:hover { background: #f4eaf5; color: #65317d; }
+nav a.active { background: #2a1c31; box-shadow: 0 8px 20px #2a1c3127; }
+nav a.active:after { background: #d79d4b; }
+.sidebar-bottom .mini-orbit, .sidebar-bottom a { color: #833ca3; }
+.breadcrumbs span { border-right-color: #d8cbd5; }
+.icon-btn { background: #fffaf4; color: #65446f; border-color: #eee0d5; }
+.glass { border-color: rgba(255, 255, 255, .96); }
+.filterbar label { color: #786f79; }
+.filterbar select, .filterbar input { color: #39243d; }
+.export-btn { background: #efe4f0; color: #603276; }
+.export-btn:hover { background: #e3d1e9; }
+.scope-note { color: #7c7280; }
+.hero {
+  background: linear-gradient(112deg, #171319, #392343 70%, #43284c);
+  border-color: #d79d4b55;
+  box-shadow: 0 18px 45px rgba(35, 19, 40, .16);
+}
+.hero:before { background: #d79d4b4d; }
+.hero .tag, .hero-stat span { color: #edcf9e; }
+.hero p { color: #eee1ea; }
+.hero-stat { border-right-color: #d79d4b44; }
+.building g { stroke: #dcb87d; }
+.kpi-top { color: #66566c; }
+.kpi-icon { background: #f2e6f3; color: #833ca3; }
+.positive { color: #65317e; background: #f1e6f5; }
+.negative { color: #a43d51; background: #fae9e9; }
+.warning { color: #805521; background: #f7ebd9; }
+.neutral { color: #66566e; background: #f0ebf0; }
+.panel-tag { border-color: #e5d8e4; color: #7b6680; }
+.legend, .chart text { color: #776a7b; fill: #776a7b; }
+.chart .axis-line { stroke: #dcd2dc; }
+.chart .chart-label { fill: #3b2940; }
+.insight .num { background: #f0e7f2; color: #79488c; }
+.insight button { color: #71318d; }
+th { color: #817585; border-bottom-color: #e7dde3; }
+td { border-bottom-color: #f0e9ee; }
+tbody tr[data-project]:hover { background: #f2e9f577; }
+.project-name { color: #38263d; }
+.secondary { color: #897e89; }
+.progress { background: #ece3ec; }
+.progress b { background: #833ca3; }
+.search { border-color: #e4d7e1; background: #fffdfa; }
+.strip { border-right-color: #d79d4b; }
+.metric-line .track { background: #eee5ec; }
+.metric-line .track span { background: linear-gradient(90deg, #d4ace1, #833ca3); }
+.metric-line .amount { color: #6b3a7c; }
+.control input[type=range] { accent-color: #833ca3; }
+.scenario-result>div { background: #f5edf4; }
+.decision-card .rank { color: #b38b4f; }
+.decision-card .owner { color: #664b6c; background: #f5edf4; }
+.lineage>div:not(:last-child):after, .lineage .stage { color: #9b6bac; }
+.quality-number { color: #79438e; }
+.callout { background: #f5edf3; color: #685b6d; }
+.funnel>div { background: linear-gradient(100deg, #392044, #833ca3); }
+.funnel>div:nth-child(2) { background: linear-gradient(100deg, #754184, #ac72bd); }
+.funnel>div:nth-child(3) { background: linear-gradient(100deg, #9b6a30, #d79d4b); }
+.drawer-backdrop { background: #26142f55; }
+.drawer { background: #fbf8f5; box-shadow: 0 0 60px #321d3d30; }
+.drawer .close { color: #65336f; }
+#toast, .tooltip { background: #2b1d32; }
+.footnote, footer { color: #807481; }
+@media(max-width:800px) {
+  .sidebar { background: #fcf8f4; }
+}
+@media print {
+  body { background: #fff; }
+  .hero { print-color-adjust: exact; }
+}

diff --git a/index.html b/index.html
@@ -1,6 +1,6 @@
 <!doctype html>
 <html lang="fa" dir="rtl">
-<head><meta charset="utf-8"><meta name="viewport" content="width=device-width,initial-scale=1"><title>هُما | اتاق تصمیم مدیرعامل</title><link rel="stylesheet" href="style.css"></head>
+<head><meta charset="utf-8"><meta name="viewport" content="width=device-width,initial-scale=1"><title>هُما | اتاق تصمیم مدیرعامل</title><link rel="stylesheet" href="style.css"><link rel="stylesheet" href="lotus-theme.css"></head>
 <body>
 <div class="ambient a1"></div><div class="ambient a2"></div>
 <aside class="sidebar">

diff --git a/docs/LOTUS-PALETTE.md b/docs/LOTUS-PALETTE.md
@@ -1,0 +1,14 @@
+# پالت رنگی داشبورد هُما با الهام از لوتوس
+
+منبع مشاهده: [lotusgr.com](https://lotusgr.com/) در ۷ اکتبر ۲۰۲۶. رنگهای زیر از سبکهای محاسبهشدهٔ عناصر صفحهٔ اصلی استخراج شدهاند؛ هُما یک پروژهٔ فرضی است و وابستگی سازمانی به لوتوس ندارد.
+
+| نقش در سایت مرجع | رنگ | کاربرد در داشبورد |
+|---|---|---|
+| طلایی دکمهها | `#D79D4B` | نقطههای تأکیدی، نمودار هزینه، نشانهای صفحهٔ تیره |
+| بنفش زمینهٔ اسلایدر پروژهها | `#833CA3` | نمودار درآمد، نوار پیشرفت، کنترلهای تعاملی |
+| طلایی ملایم عنوان | `#A37F50` | مرجع طیف طلایی برای برچسبها و خطوط ظریف |
+| مشکی | `#000000` | مرجع زمینهٔ تیره؛ در داشبورد به ذغالی `#2A1C31` نرم شده است |
+| سفید | `#FFFFFF` | کارتهای شیشهای و خوانایی متن |
+| خاکستری متن | `#767676` | مرجع نوشتهٔ ثانویه؛ در داشبورد برای کنتراست به `#685F6B` تنظیم شده است |
+
+رنگهای وضعیت معنای تحلیلی خود را نگه میدارند: خطر و افت به قرمز ملایم (`#AD4455`) و هشدار به طلایی تیره (`#805521`) نمایش داده میشود. زمینهٔ داشبورد `#F7F4F1` است تا کارتهای شیشهای و نمودارها خوانا بمانند. تغییر صرفاً به رنگ، سایه و پسزمینه محدود شده؛ داده و محاسبات داشبورد تغییر نکردهاند.

diff --git a/README.md b/README.md
@@ -4,4 +4,6 @@
 
 ۸ صفحهٔ تعاملی برای تحلیل مدیریت، پروژهها، نقدینگی، خرید، مشتریان، نیروی انسانی، سناریو و کیفیت داده. تمام شرکتها، تراکنشها و نرخ ارز فرضیاند. دادهٔ داشبورد در `data.js` قرار دارد و سایت بدون بکاند اجرا میشود.
 
+رنگبندی با الهام از رنگهای عمومی [سایت لوتوس](https://lotusgr.com/) طراحی شده است؛ هُما وابستگی سازمانی به لوتوس ندارد. [جزئیات پالت](docs/LOTUS-PALETTE.md)
+
 منبع کامل دادهٔ مصنوعی و دیتابیس SQLite در بستهٔ محلی نمونهکار نگهداری میشود.
